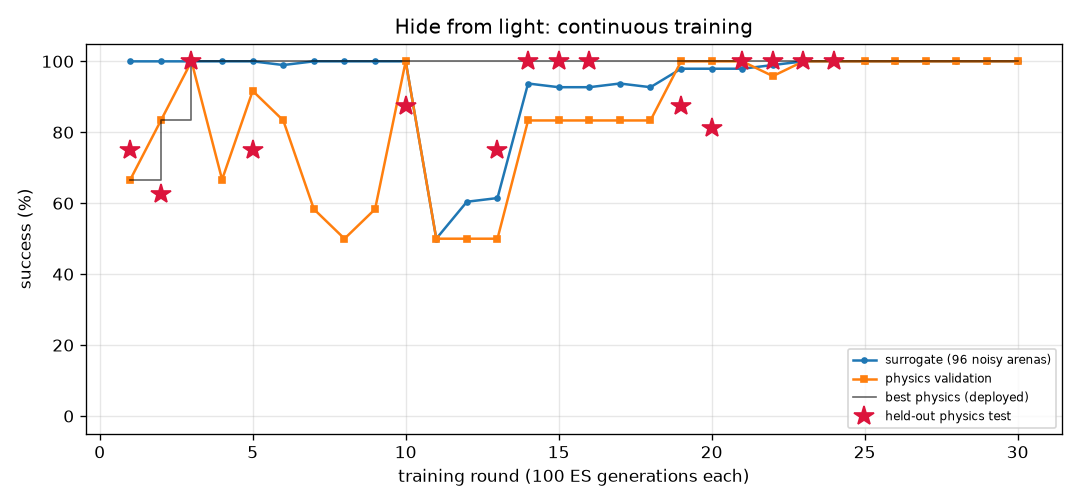
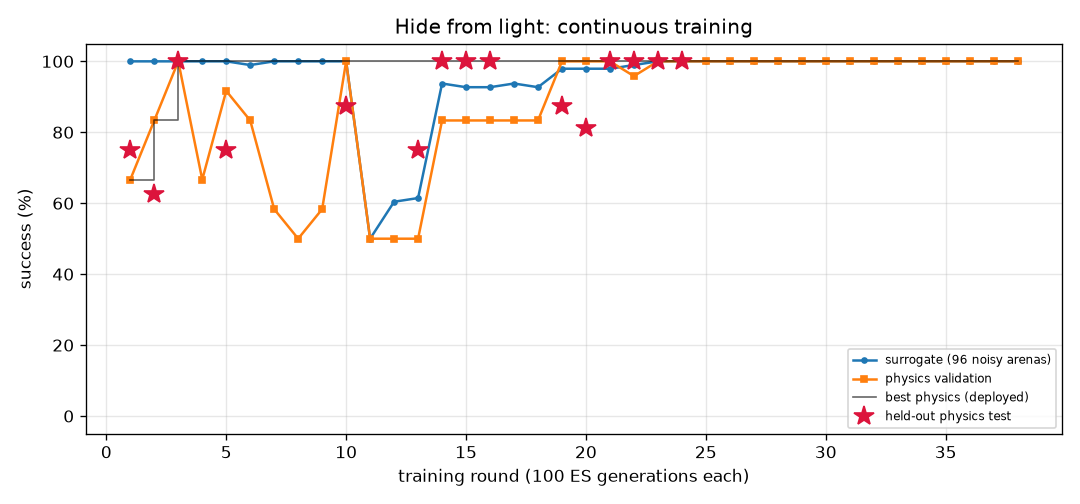
FlyLab: continuous training progress
- walk_forward: optimal, physics val 100% of 24, round 34
- turn: optimal, physics val 100% of 24, round 29
- goto: optimal, physics val 100% of 24, round 36
- odor_seek: optimal, physics val 100% of 24, round 65
- odor_avoid: optimal, physics val 96% of 24, round 215
- light_seek: optimal, physics val 100% of 24, round 205
- light_avoid: optimal, physics val 100% of 24, round 38

diff --git a/projects/09_flylab/training/turn/REPORT.md b/projects/09_flylab/training/turn/REPORT.md
@@ -1,17 +1,17 @@
 # Turn in place (`turn`) — training report
 
-*Auto-generated by `train_brains.py`, last updated 2026-10-01T20:14:22.*
+*Auto-generated by `train_brains.py`, last updated 2026-10-01T23:23:14.*
 
 ![curve](curve.png)
 
 | | |
 |---|---|
-| rounds | 18 |
-| ES generations | 1800 |
-| physics runs | 582 |
+| rounds | 29 |
+| ES generations | 2900 |
+| physics runs | 878 |
 | status | **optimal** |
-| best brain | round 16: physics validation **100%** on 24 arenas, surrogate 99% |
-| held-out physics test | **94%** on 32 unseen arenas (95% CI 80%-98%) (errors: [5.3, 0.1, 14.0, 0.5, 3.8, 0.9, 2.3, 12.2, 2.5, 0.1, 3.3, 1.6, 2.2, 0.2, 1.5, 3.4, 3.5, 13.5, 12.8, 1.0, 3.2, 0.2, 2.0, 12.8, 12.3, 4.9, 3.4, 5.6, 14.9, 12.3, 11.8, 2.5]) |
+| best brain | round 21: physics validation **100%** on 24 arenas, surrogate 98% |
+| held-out physics test | **91%** on 32 unseen arenas (95% CI 76%-97%) (errors: [2.4, 2.5, 5.3, 4.0, 0.6, 2.1, 0.1, 0.3, 2.0, 2.5, 1.3, 1.7, 1.1, 1.8, 5.4, 1.6, 1.6, 1.0, 1.0, 8.7, 0.7, 1.4, 2.4, 10.2, 2.8, 4.1, 2.2, 4.6, 11.0, 0.6, 8.4, 9.8]) |
 
 Physics error per arena: deg from target heading (< 20 = success).
 
@@ -37,3 +37,14 @@ Physics error per arena: deg from target heading (< 20 = success).
 | 16 | 3 | 1600 | 0.025 | 99% | 100% | [5.1, 0.6, 7.5, 1.6, 14.5, 12.7, 6.2, 4.7, 5.3, 13.8, 4.4, 3.3, 1.4, 0.1, 3.0, 13.5, 3.6, 13.0, 13.7, 13.5, 2.2, 3.1, 5.4, 3.7] | 94% | new best |
 | 17 | 3 | 1700 | 0.025 | 99% | 92% | [0.0, 1.6, 5.5, 0.5, 3.3, 117.4, 4.8, 2.1, 4.0, 11.5, 3.5, 2.4, 2.4, 2.1, 3.1, 12.0, 2.3, 11.4, 9.6, 11.9, 3.8, 1.4, 4.4, 0.4] |  |  |
 | 18 | 3 | 1800 | 0.025 | 99% | 92% | [6.3, 0.1, 5.6, 2.0, 14.0, 1.0, 7.1, 7.1, 6.5, 1.5, 7.0, 3.2, 0.6, 0.7, 1.3, 2.3, 3.0, 2.8, 2.4, 2.1, 4.2, 2.3, 6.9, 5.9] |  |  |
+| 19 | 3 | 1900 | 0.025 | 99% | 100% | [4.4, 2.6, 0.8, 1.7, 0.3, 5.6, 4.0, 7.0, 5.2, 12.7, 3.5, 0.7, 2.9, 2.5, 3.6, 1.8, 1.1, 1.2, 1.9, 2.2, 3.7, 2.0, 5.9, 0.2] |  |  |
+| 20 | 3 | 2000 | 0.025 | 99% | 96% | [5.4, 6.1, 7.9, 3.2, 0.9, 0.0, 7.3, 10.2, 7.8, 4.2, 5.2, 6.2, 3.0, 1.5, 5.2, 13.5, 2.2, 14.7, 14.0, 5.3, 4.7, 0.4, 7.2, 8.7] |  | restart from best |
+| 21 | 3 | 2100 | 0.025 | 98% | 100% | [3.2, 3.8, 8.8, 3.7, 10.3, 11.4, 4.9, 4.5, 3.6, 10.2, 2.5, 1.3, 2.7, 2.7, 3.4, 0.7, 1.5, 1.0, 0.5, 0.8, 5.4, 1.0, 4.3, 2.8] | 91% | new best |
+| 22 | 3 | 2200 | 0.025 | 99% | 83% | [7.7, 5.4, 0.5, 1.0, 1.2, 4.5, 4.9, 1.9, 5.4, 2.4, 4.9, 1.0, 1.3, 1.6, 0.4, 2.6, 0.3, 2.7, 2.6, 0.2, 6.7, 1.9, 5.5, 7.4] |  |  |
+| 23 | 3 | 2300 | 0.025 | 100% | 96% | [8.1, 13.9, 7.6, 3.3, 2.5, 3.5, 8.1, 8.6, 8.0, 12.8, 3.5, 4.9, 1.2, 1.2, 3.9, 11.5, 4.9, 13.0, 14.2, 13.2, 1.2, 4.3, 6.7, 5.2] |  |  |
+| 24 | 3 | 2400 | 0.024 | 100% | 100% | [1.6, 12.7, 8.5, 0.7, 1.8, 5.2, 8.7, 8.9, 9.3, 3.4, 5.3, 5.3, 2.0, 2.2, 4.0, 13.8, 5.5, 3.6, 13.8, 4.5, 2.6, 4.9, 9.0, 5.8] |  |  |
+| 25 | 3 | 2500 | 0.024 | 100% | 79% | [0.8, 12.6, 2.6, 1.0, 9.8, 116.8, 9.1, 6.3, 8.5, 3.1, 5.2, 4.1, 1.0, 0.8, 4.4, 14.8, 4.2, 3.6, 15.0, 14.5, 0.9, 3.7, 8.3, 6.3] |  | restart from best |
+| 26 | 3 | 2600 | 0.025 | 99% | 83% | [3.4, 1.3, 6.6, 1.4, 0.5, 5.4, 6.2, 9.8, 5.4, 14.0, 6.0, 1.9, 0.3, 1.4, 5.1, 1.6, 2.0, 2.6, 1.4, 1.9, 3.5, 2.0, 5.7, 2.6] |  |  |
+| 27 | 3 | 2700 | 0.025 | 99% | 92% | [6.4, 2.5, 1.7, 2.1, 3.2, 8.2, 5.1, 6.8, 5.8, 0.6, 5.7, 0.2, 3.5, 0.7, 3.7, 1.0, 0.6, 0.1, 1.2, 1.0, 4.1, 0.8, 5.2, 5.0] |  |  |
+| 28 | 3 | 2800 | 0.025 | 100% | 92% | [8.6, 14.6, 9.5, 4.9, 0.5, 3.0, 9.4, 7.5, 9.4, 13.1, 5.5, 5.9, 1.0, 2.2, 4.8, 12.4, 6.0, 4.6, 12.3, 12.2, 1.8, 1.9, 8.4, 2.5] |  |  |
+| 29 | 3 | 2900 | 0.024 | 98% | 83% | [8.6, 3.9, 9.7, 0.0, 0.1, 3.4, 4.7, 7.4, 4.9, 0.4, 5.0, 1.8, 0.2, 3.0, 5.2, 1.2, 0.5, 1.2, 0.3, 0.4, 4.4, 1.6, 4.6, 2.4] |  | restart from best |

diff --git a/projects/09_flylab/training/light_avoid/REPORT.md b/projects/09_flylab/training/light_avoid/REPORT.md
@@ -1,14 +1,14 @@
 # Hide from light (`light_avoid`) — training report
 
-*Auto-generated by `train_brains.py`, last updated 2026-10-01T20:58:42.*
+*Auto-generated by `train_brains.py`, last updated 2026-10-01T23:18:18.*
 
 ![curve](curve.png)
 
 | | |
 |---|---|
-| rounds | 30 |
-| ES generations | 3000 |
-| physics runs | 928 |
+| rounds | 38 |
+| ES generations | 3800 |
+| physics runs | 1120 |
 | status | **optimal** |
 | best brain | round 24: physics validation **100%** on 24 arenas, surrogate 100% |
 | held-out physics test | **100%** on 32 unseen arenas (95% CI 89%-100%) (errors: [14.4, 35.3, 32.8, 34.6, 34.6, 14.0, 14.5, 35.2, 35.2, 13.3, 14.0, 35.3, 34.8, 13.1, 30.9, 34.5, 31.3, 30.8, 32.2, 33.8, 35.8, 12.8, 34.1, 31.1, 14.1, 13.8, 34.6, 33.3, 35.4, 13.1, 35.5, 32.7]) |
@@ -47,3 +47,11 @@ Physics error per arena: mm gained away from source (> 6 without first approachi
 | 28 | 3 | 2800 | 0.024 | 100% | 100% | [45.5, 44.0, 43.6, 44.4, 47.3, 44.7, 41.6, 14.5, 45.4, 13.1, 47.1, 47.4, 14.3, 46.7, 43.6, 45.5, 14.2, 47.2, 44.0, 14.4, 46.5, 46.3, 42.6, 47.3] |  | restart from best |
 | 29 | 3 | 2900 | 0.024 | 100% | 100% | [36.9, 37.3, 39.0, 36.8, 35.2, 37.0, 39.8, 14.5, 35.0, 13.1, 39.3, 35.1, 14.4, 38.7, 38.3, 37.3, 14.2, 35.7, 37.0, 14.5, 37.7, 40.0, 39.3, 34.0] |  |  |
 | 30 | 3 | 3000 | 0.024 | 100% | 100% | [50.6, 54.1, 53.9, 50.9, 53.1, 51.2, 52.7, 14.5, 50.9, 12.8, 53.4, 52.9, 14.4, 53.4, 54.1, 50.1, 14.2, 53.7, 54.4, 14.4, 50.1, 53.1, 52.2, 52.3] |  |  |
+| 31 | 3 | 3100 | 0.024 | 100% | 100% | [56.9, 59.8, 59.6, 57.0, 56.7, 56.2, 59.3, 14.5, 55.2, 13.2, 57.6, 56.6, 14.4, 58.6, 59.8, 56.7, 14.2, 57.8, 59.6, 14.4, 56.9, 58.4, 58.9, 55.5] |  |  |
+| 32 | 3 | 3200 | 0.024 | 100% | 100% | [55.1, 59.0, 58.7, 56.7, 58.6, 55.5, 57.3, 14.5, 44.9, 13.6, 57.9, 58.5, 14.4, 56.6, 58.8, 57.2, 14.2, 59.1, 59.3, 14.4, 55.6, 57.9, 57.1, 57.9] |  | restart from best |
+| 33 | 3 | 3300 | 0.024 | 100% | 100% | [45.0, 46.4, 46.5, 44.8, 42.2, 44.4, 46.5, 14.5, 40.3, 13.2, 46.0, 42.1, 14.4, 41.7, 46.4, 45.1, 14.2, 43.6, 46.1, 14.4, 45.4, 46.4, 46.1, 40.9] |  |  |
+| 34 | 3 | 3400 | 0.024 | 100% | 100% | [48.2, 49.7, 49.5, 48.4, 48.0, 48.3, 48.7, 14.5, 20.6, 13.5, 49.1, 47.6, 14.4, 46.5, 49.7, 48.0, 14.2, 48.5, 50.0, 14.4, 47.4, 48.8, 48.4, 47.1] |  |  |
+| 35 | 3 | 3500 | 0.024 | 100% | 100% | [49.7, 50.8, 50.5, 49.8, 50.1, 50.3, 49.5, 14.5, 48.0, 13.1, 50.9, 49.9, 14.3, 49.2, 50.7, 48.8, 14.2, 50.6, 51.1, 14.4, 48.5, 50.6, 49.1, 49.3] |  |  |
+| 36 | 3 | 3600 | 0.024 | 100% | 100% | [49.6, 51.4, 51.7, 49.4, 47.0, 48.9, 51.9, 14.5, 44.8, 13.5, 48.8, 46.9, 14.4, 46.2, 51.5, 48.8, 14.2, 48.2, 51.1, 14.4, 48.3, 49.2, 51.0, 46.2] |  | restart from best |
+| 37 | 3 | 3700 | 0.024 | 100% | 100% | [27.8, 28.3, 27.9, 26.9, 24.9, 27.9, 28.2, 14.5, 24.7, 13.0, 28.0, 26.0, 14.4, 29.1, 27.8, 26.7, 14.2, 27.5, 28.5, 14.4, 27.4, 30.0, 28.4, 26.3] |  |  |
+| 38 | 3 | 3800 | 0.024 | 100% | 100% | [43.1, 44.0, 43.6, 42.8, 44.2, 41.4, 42.2, 14.5, 37.0, 13.4, 44.5, 44.1, 14.4, 43.8, 43.8, 40.9, 14.2, 44.5, 44.3, 14.4, 43.3, 44.5, 42.1, 43.6] |  |  |

diff --git a/projects/09_flylab/training/TRAINING.md b/projects/09_flylab/training/TRAINING.md
@@ -1,15 +1,15 @@
 # FlyLab brains — continuous training log
 
-*Auto-generated by `train_brains.py`, last updated 2026-10-01T22:29:35.*
+*Auto-generated by `train_brains.py`, last updated 2026-10-01T23:23:14.*
 
 Every skill has its own brain and its own training process: surrogate ES rounds, physics validation in MuJoCo, keep-the-best selection, and a held-out physics test that is never used for selection. See each skill's report for its full round-by-round history. Mastery is progressive: passing a level (100% physics validation, >=95% surrogate) doubles the validation and test arena sets; a brain is **optimal** once it holds up at level 3 (>=95% of 24 validation arenas) AND scores >=90% on the 32 held-out test arenas. Test columns show 95% Wilson confidence intervals.
 
 | skill | rounds | ES generations | physics runs | surrogate | physics val | **physics test** | status |
 |---|---:|---:|---:|---:|---:|---:|---|
 | [Walk forward](walk_forward/REPORT.md) | 34 | 3400 | 606 | 99% | 100% of 24 | 100% of 32 (CI 89-100%) | **optimal** |
-| [Turn in place](turn/REPORT.md) | 18 | 1800 | 582 | 99% | 100% of 24 | 94% of 32 (CI 80-98%) | **optimal** |
+| [Turn in place](turn/REPORT.md) | 29 | 2900 | 878 | 98% | 100% of 24 | 91% of 32 (CI 76-97%) | **optimal** |
 | [Go to a location](goto/REPORT.md) | 36 | 3600 | 558 | 100% | 100% of 24 | 100% of 32 (CI 89-100%) | **optimal** |
 | [Find food by smell](odor_seek/REPORT.md) | 65 | 6500 | 702 | 100% | 100% of 24 | 100% of 32 (CI 89-100%) | **optimal** |
 | [Escape a bad smell](odor_avoid/REPORT.md) | 215 | 21500 | 1986 | 97% | 96% of 24 | 94% of 32 (CI 80-98%) | **optimal** |
 | [Walk toward light](light_seek/REPORT.md) | 205 | 20500 | 1544 | 100% | 100% of 24 | 97% of 32 (CI 84-99%) | **optimal** |
-| [Hide from light](light_avoid/REPORT.md) | 30 | 3000 | 928 | 100% | 100% of 24 | 100% of 32 (CI 89-100%) | **optimal** |
+| [Hide from light](light_avoid/REPORT.md) | 38 | 3800 | 1120 | 100% | 100% of 24 | 100% of 32 (CI 89-100%) | **optimal** |
